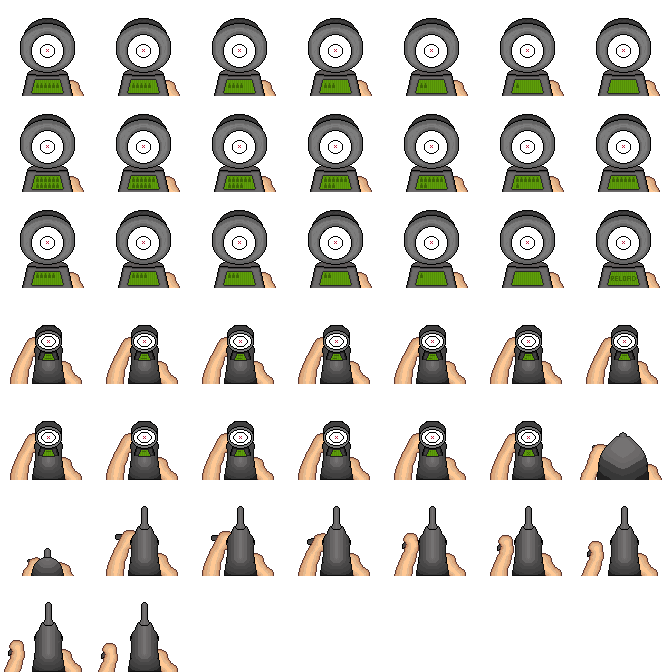
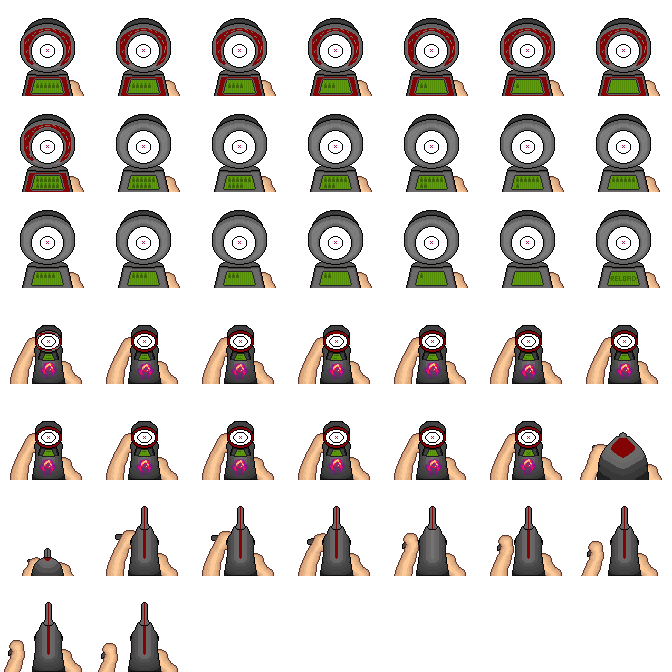
Added debugging keycodes
[git-p4: depot-paths = "//depot/C35/Students/cwsullivan/SD/": change = 461489]

diff --git a/Doomenstein/Code/Game/PlayerController.cpp b/Doomenstein/Code/Game/PlayerController.cpp
@@ -11,6 +11,7 @@
 #include "Engine/Core/VertexUtils.hpp"
 #include "Engine/Renderer/SimpleTriangleFont.hpp"
 #include "PowerUpDefinitions.hpp"
+#include "App.hpp"
 
 //-----------------------------------------------------------------------------------------------
 PlayerController::PlayerController( Map* map, Camera* camera )
@@ -24,6 +25,7 @@ PlayerController::PlayerController( Map* map, Camera* camera )
 	m_hudTexture = g_engine->m_render->CreateOrGetTextureFromFile( "Data/Images/Hud_Base.png" );
 	m_mayhemTexture = g_engine->m_render->CreateOrGetTextureFromFile( "Data/Images/mayhem.png" );
 	m_reticleTexture = g_engine->m_render->CreateOrGetTextureFromFile( "Data/Images/Reticle.png" );
+	g_engine->m_eventSystem->SubscribeEventCallbackFunction( "AddGold", Command_AddGold );
 }
 
 //-----------------------------------------------------------------------------------------------
@@ -744,7 +746,7 @@ void PlayerController::ToggleCameraMode()
 		m_freeFlyCameraOrientation.m_yawDegrees = actor->m_orientation.m_yawDegrees;
 		m_freeFlyCameraOrientation.m_pitchDegrees = 0.f;
 	}
-}
+}																																					   
 
 //-----------------------------------------------------------------------------------------------
 void PlayerController::PossessNextActor()
@@ -796,4 +798,16 @@ void PlayerController::ProcessWeaponChangeInput()
 	{
 		actor->EquipPreviousWeapon();
 	}
+}
+
+//-----------------------------------------------------------------------------------------------
+bool Command_AddGold( [[maybe_unused]] EventArgs& args )
+{
+	float amount = args.GetValue( "1", 750.f );
+	if ( g_app && g_app->m_game && g_app->m_game->m_playerController1 )
+	{
+		g_app->m_game->m_playerController1->AddGold( amount );
+
+	}
+	return false;
 }

diff --git a/Doomenstein/Code/Game/PlayerController.hpp b/Doomenstein/Code/Game/PlayerController.hpp
@@ -7,6 +7,7 @@
 #include "Engine/Renderer/Camera.hpp"
 #include "Engine/Core/Timer.hpp"
 #include "Engine/Renderer/Texture.hpp"
+#include "Engine/Core/EventSystem.hpp"
 
 
 //-----------------------------------------------------------------------------------------------
@@ -72,3 +73,5 @@ private:
 	static constexpr float FREE_FLY_SPRINT_SPEED = 15.f;
 	static constexpr float MAX_CAMERA_PITCH = 85.f;
 };
+
+bool Command_AddGold( [[maybe_unused]] EventArgs& args );

diff --git a/Doomenstein/Code/Game/App.cpp b/Doomenstein/Code/Game/App.cpp
@@ -113,7 +113,7 @@ bool App::IsQuitting() const
 //------------------------------------------------------------------------------
 bool App::Event_Quit( [[maybe_unused]] EventArgs& args )
 {
-	g_theApp->SetIsQuitting();
+	g_app->SetIsQuitting();
 	return false;
 }
 

diff --git a/Doomenstein/Code/Game/App.hpp b/Doomenstein/Code/Game/App.hpp
@@ -10,7 +10,7 @@ class App;
 class Game;
 
 //------------------------------------------------------------------------------
-extern App* g_theApp;
+extern App* g_app;
 
 //------------------------------------------------------------------------------
 class App

diff --git a/Doomenstein/Code/Game/Map.cpp b/Doomenstein/Code/Game/Map.cpp
@@ -212,7 +212,7 @@ void Map::CreateBuffers()
 //-----------------------------------------------------------------------------------------------
 bool Map::IsPositionInBounds( const Vec3& position ) const
 {
-	return ( AreCoordsInBounds( ( int )position.x, ( int )position.y ) && ( position.z >= 0.f && position.z <= 1.f ) );
+	return ( AreCoordsInBounds( ( int )position.x, ( int )position.y ) && ( position.z >= 0.f /*&& position.z <= 1.f*/ ) );
 }
 
 //-----------------------------------------------------------------------------------------------